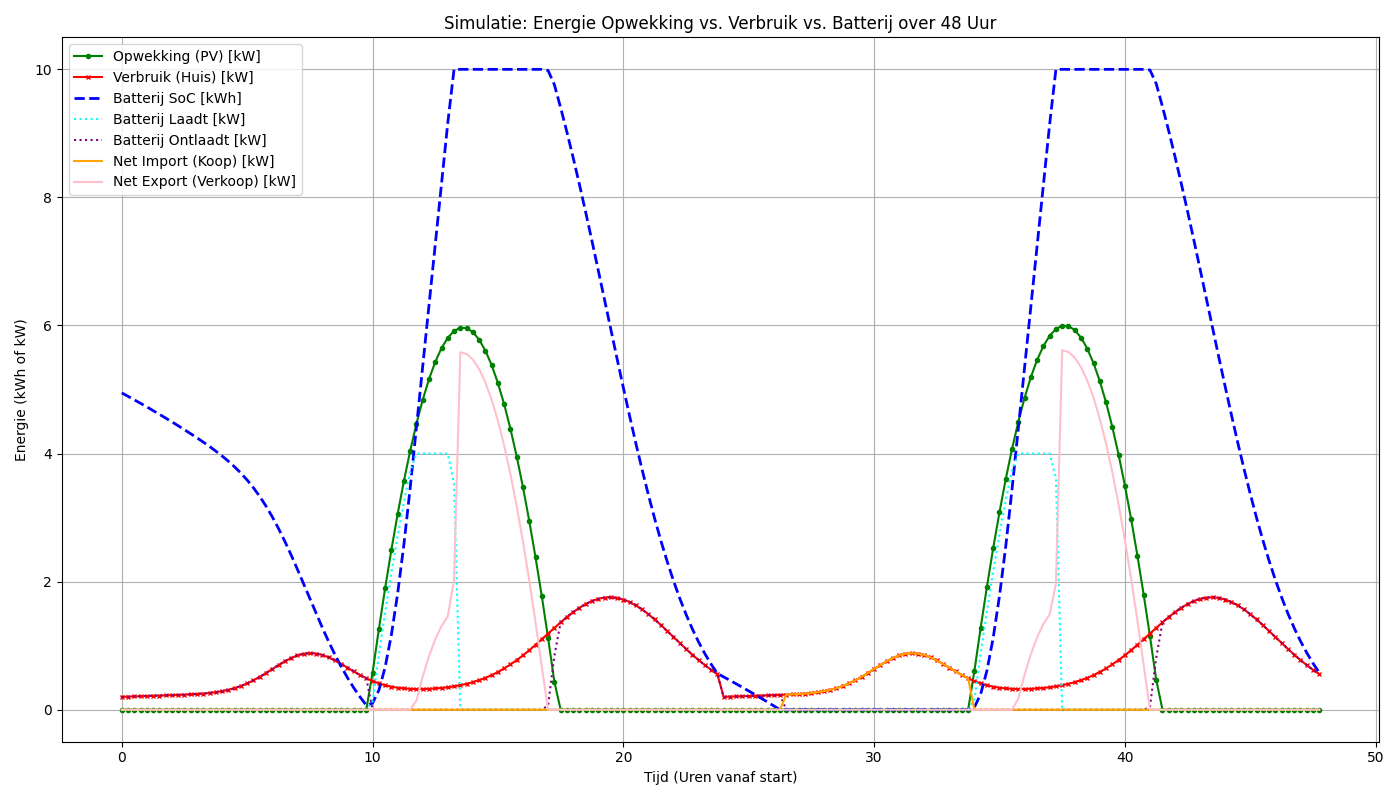
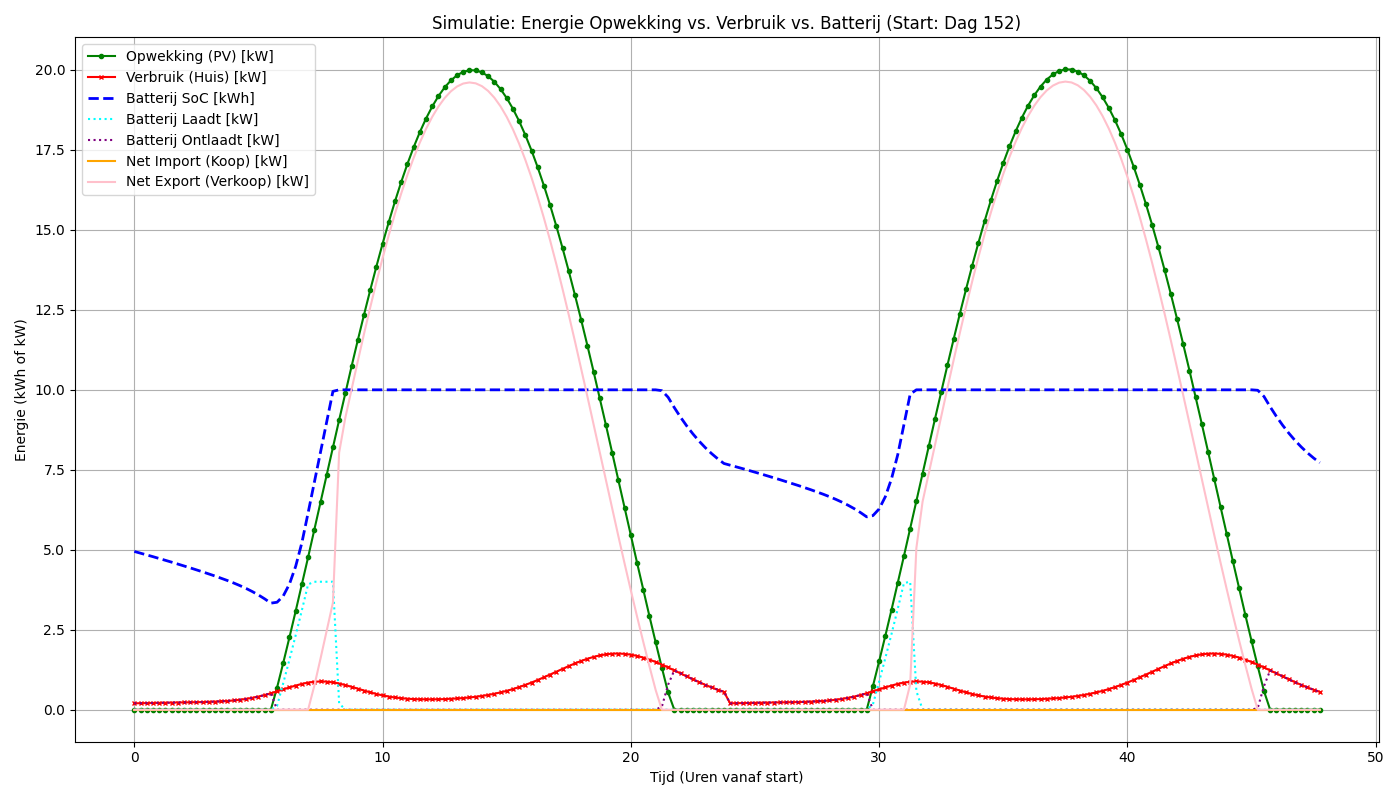
refactor(simpy): clean up old models and support seasonal start days
- Added `start_dag` parameter to the simulation runner to easily switch between seasons (e.g., day 1 for Jan, day 152 for June).

- Cleaned up `try_1_producer_consumer.py` by removing obsolete commented-out code, old container logic, and unused monitor processes.

- Removed deprecated `try1_zon_opbrengst_model.py` and `try2_verbruik_model.py` files in favor of the new versioned modules.

- Updated `README.md` with new insights comparing battery performance in January versus summer, alongside the latest simulation graphs.

diff --git a/experiment_simpy/try_1_producer_consumer.py b/experiment_simpy/try_1_producer_consumer.py
@@ -1,3 +1,7 @@
+# Experiment 1 : Producer-consumer voor HTES
+# Door : Edwin van den Oetelaar
+# Datum : 7 en 8 maart 2026
+
 import simpy
 import math
 from dataclasses import dataclass, field
@@ -7,31 +11,6 @@ import matplotlib.pyplot as plt
 import production_v1 as zon_model
 import consumption_v1 as verbruik_model
 from batterij_sim_v1 import Battery
-
-# Experiment 1 : Producer-consumer voor HTES
-# Door : Edwin van den Oetelaar
-# Datum : 7 maart 2026
-
-# class EnergieSysteem:
-#     """Vertegenwoordigt het energiesysteem inclusief de thuisbatterij en meetpunten."""
-#     def __init__(self, env, capaciteit, initiele_lading):
-#         self.env = env
-#         # De 'Container' dwingt de wet van behoud van energie af (vol=vol, leeg=leeg)
-#         # https://simpy.readthedocs.io/en/latest/topical_guides/resources.html#containers
-#         self.batterij = simpy.Container(env, capacity=capaciteit, init=initiele_lading)
-        
-#         # Lijsten om historische gegevens (per uur) bij te houden voor de grafiek
-#         self.tijd_log = []
-#         self.opwekking_log = []
-#         self.verbruik_log = []
-#         self.batterij_log = []
-#         self.net_levering_log = [] # Hoeveel we terugleveren aan het net
-#         self.net_afname_log = []   # Hoeveel we uit het net halen
-
-#     def log_status(self, actie):
-#         """Hulpfunctie om statusmeldingen met tijdstempel in de console te printen."""
-#         print(f"[{self.env.now:7.2f}] {actie:15} | Batterij: {self.batterij.level:7.2f} kWh")
-
 
 def zonnepanelen_proces(env, systeem):
     """Genereert energie (opwekking) op basis van het zonnemodel en stopt dit in de batterij."""
@@ -96,29 +75,6 @@ def verbruiker_proces(env, systeem):
         yield env.timeout(1)
 
 
-def monitor_proces(env, systeem):
-    """Meet elk uur de status van het systeem en bewaart de waarden om later te kunnen plotten."""
-    Opgesteld_vermogen = 20
-    
-    while True:
-        dag = int(env.now // 24) + 1
-        uur = env.now % 24
-        
-        # Bereken opwekking en verbruik op dit tijdstip met de modellen
-        fractie = zon_model.zon_opbrengst_nl(dag, uur)
-        opwekking = fractie * Opgesteld_vermogen
-        verbruik = verbruik_model.stroom_verbruik_woning(uur)
-        
-        # Sla alle datapunten op
-        systeem.tijd_log.append(env.now)
-        systeem.opwekking_log.append(opwekking)
-        systeem.verbruik_log.append(verbruik)
-        systeem.batterij_log.append(systeem.batterij.level)
-        
-        # Wacht een uur tot de volgende meting
-        yield env.timeout(1)
-
-
 @dataclass
 class EnergySystem:
     env: simpy.Environment
@@ -129,11 +85,13 @@ class EnergySystem:
 
     history: List[Dict] = field(default_factory=list)
 
-    def step(self):
+    def step(self, start_dag: int = 1):
         t_h = self.env.now / 60.0
         dt_h = self.dt_minutes / 60.0
 
-        dag = int(t_h // 24) + 1
+        # Bereken de actuele dag (start_dag + verstreken dagen)
+        # Zorg dat de dag tussen 1 en 365 blijft
+        dag = ((start_dag - 1 + int(t_h // 24)) % 365) + 1
         uur = t_h % 24
 
         load_kw = self.load_profile(dag, uur)
@@ -168,10 +126,10 @@ class EnergySystem:
             "grid_export_kw": grid_export_kw,
         })
 
-    def run(self, duration_hours: float):
+    def run(self, duration_hours: float, start_dag: int = 1):
         n_steps = int(duration_hours * 60 / self.dt_minutes)
         for _ in range(n_steps):
-            self.step()
+            self.step(start_dag)
             yield self.env.timeout(self.dt_minutes)
 
 # ==============================================================================
@@ -210,7 +168,11 @@ if __name__ == "__main__":
         dt_minutes=15
     )
 
-    env.process(system.run(duration_hours=48))
+    # Kies hier de startdag voor de simulatie (1-365)
+    # 1 = Start januari, 152 = Start juni
+    start_dag = 152
+    
+    env.process(system.run(duration_hours=48, start_dag=start_dag))
     env.run()  
  
     import pandas as pd
@@ -239,7 +201,7 @@ if __name__ == "__main__":
     plt.plot(df["time_h"], df["grid_export_kw"], label='Net Export (Verkoop) [kW]', color='pink', linestyle='-', linewidth=1.5)
     
     # Opmaak
-    plt.title('Simulatie: Energie Opwekking vs. Verbruik vs. Batterij over 48 Uur')
+    plt.title(f'Simulatie: Energie Opwekking vs. Verbruik vs. Batterij (Start: Dag {start_dag})')
     plt.xlabel('Tijd (Uren vanaf start)')
     plt.ylabel('Energie (kWh of kW)')
     plt.legend()

diff --git a/README.md b/README.md
@@ -40,7 +40,7 @@ Deze grafiek wil ik benaderen als validatie van het DES systeem.
 
 ![simulatie resultaat](simulatie_resultaat.png)
 
-### Dit is het resultaat na verbeteren model en plotten import/export van netwerk, wat opvalt is dat de batterij ongeveer 5 kWh te klein is... ;-)
+### Dit is het resultaat na verbeteren model en plotten import/export van netwerk, wat opvalt is dat de batterij ongeveer 5 kWh te klein is... in januari ;-)
 
 ---
 
